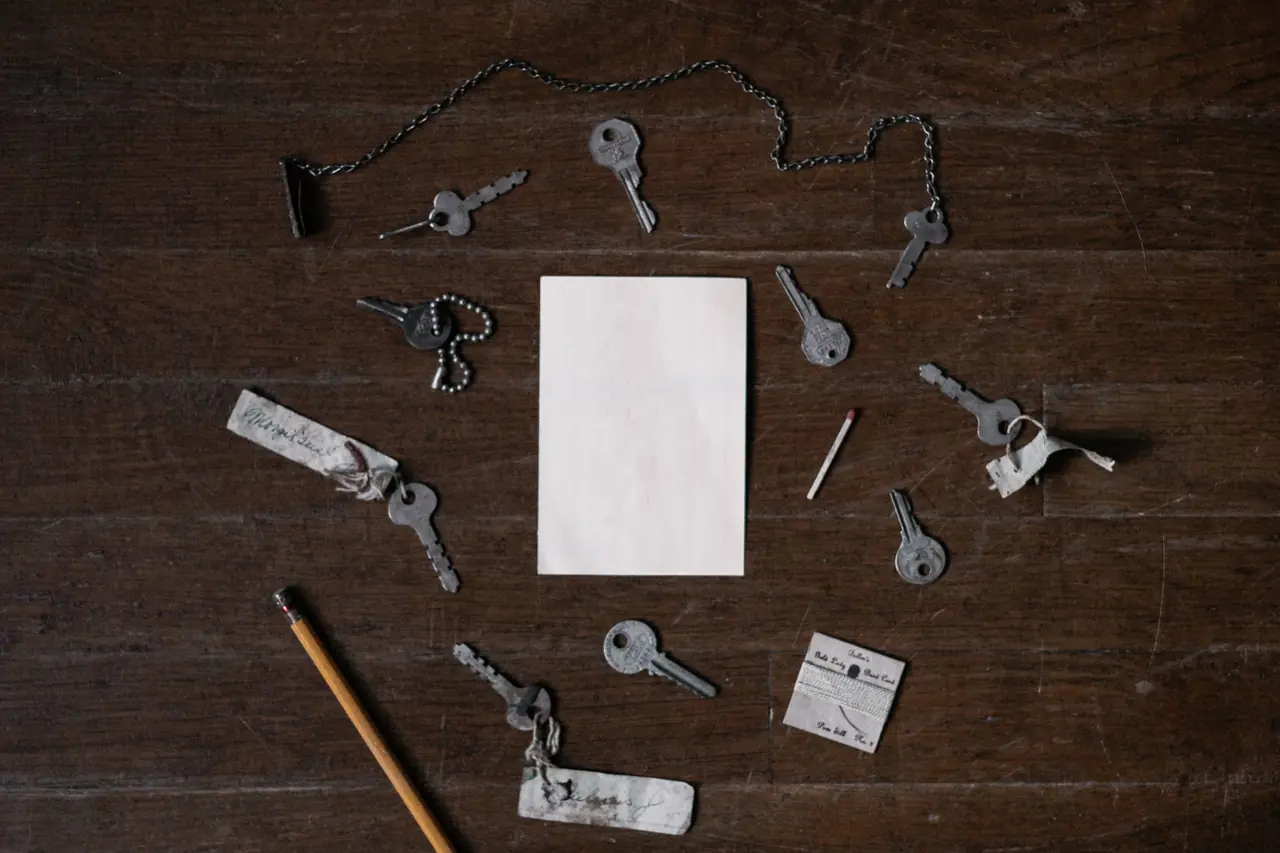
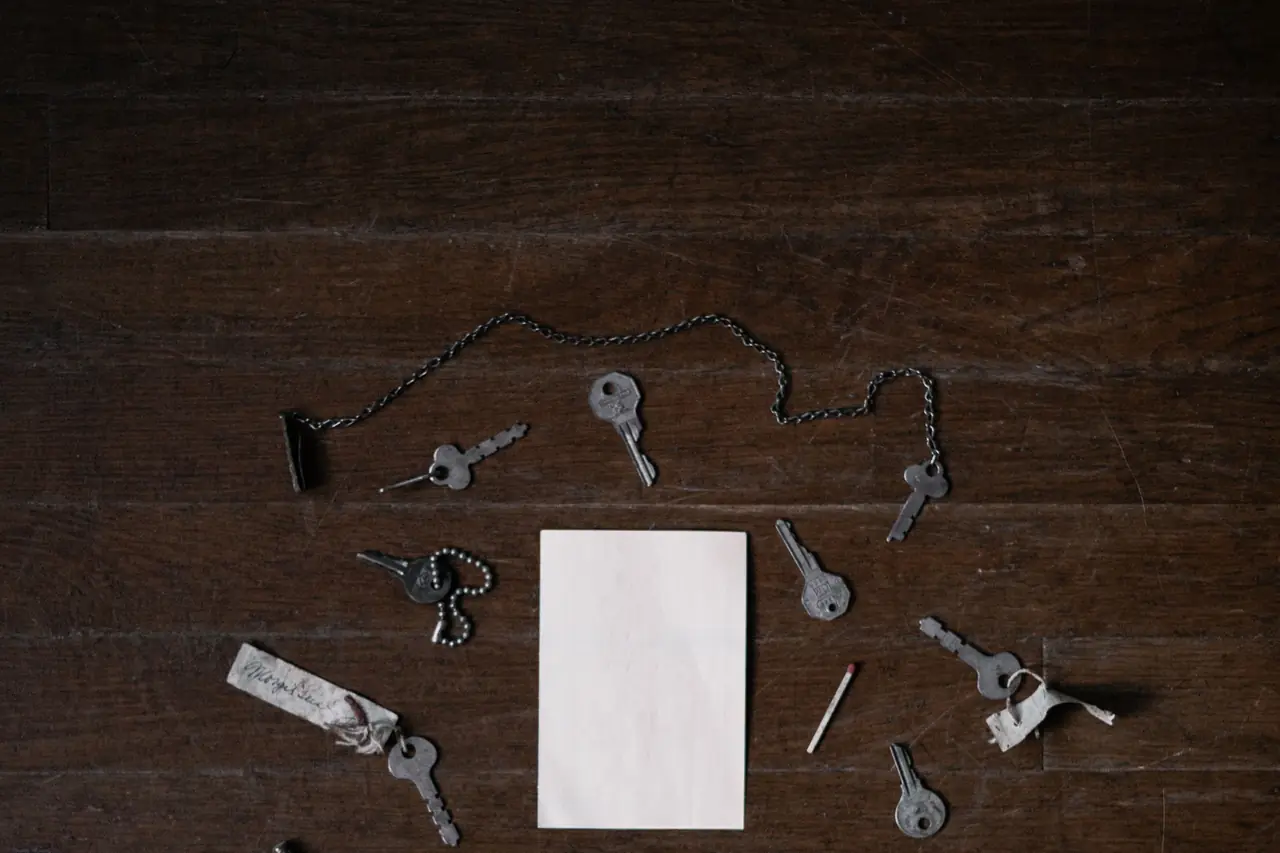
Publish aumakuadefense-prototype PR #3 head 5a99035 (preview, noindex)

diff --git a/css/site.css b/css/site.css
@@ -371,8 +371,8 @@ main { display: block; }
 }
 @media (min-width: 760px) and (max-width: 1199px) and (orientation: portrait) {
   .hero-home {
-    min-height: min(calc(100svh - var(--header-h, 64px)), 1100px);
-    height: min(calc(100svh - var(--header-h, 64px)), 1100px);
+    min-height: min(calc(100svh - var(--header-h, 64px) - 73px), 1100px);
+    height: min(calc(100svh - var(--header-h, 64px) - 73px), 1100px);
   }
   .hero-layer-far {
     top: 0;
